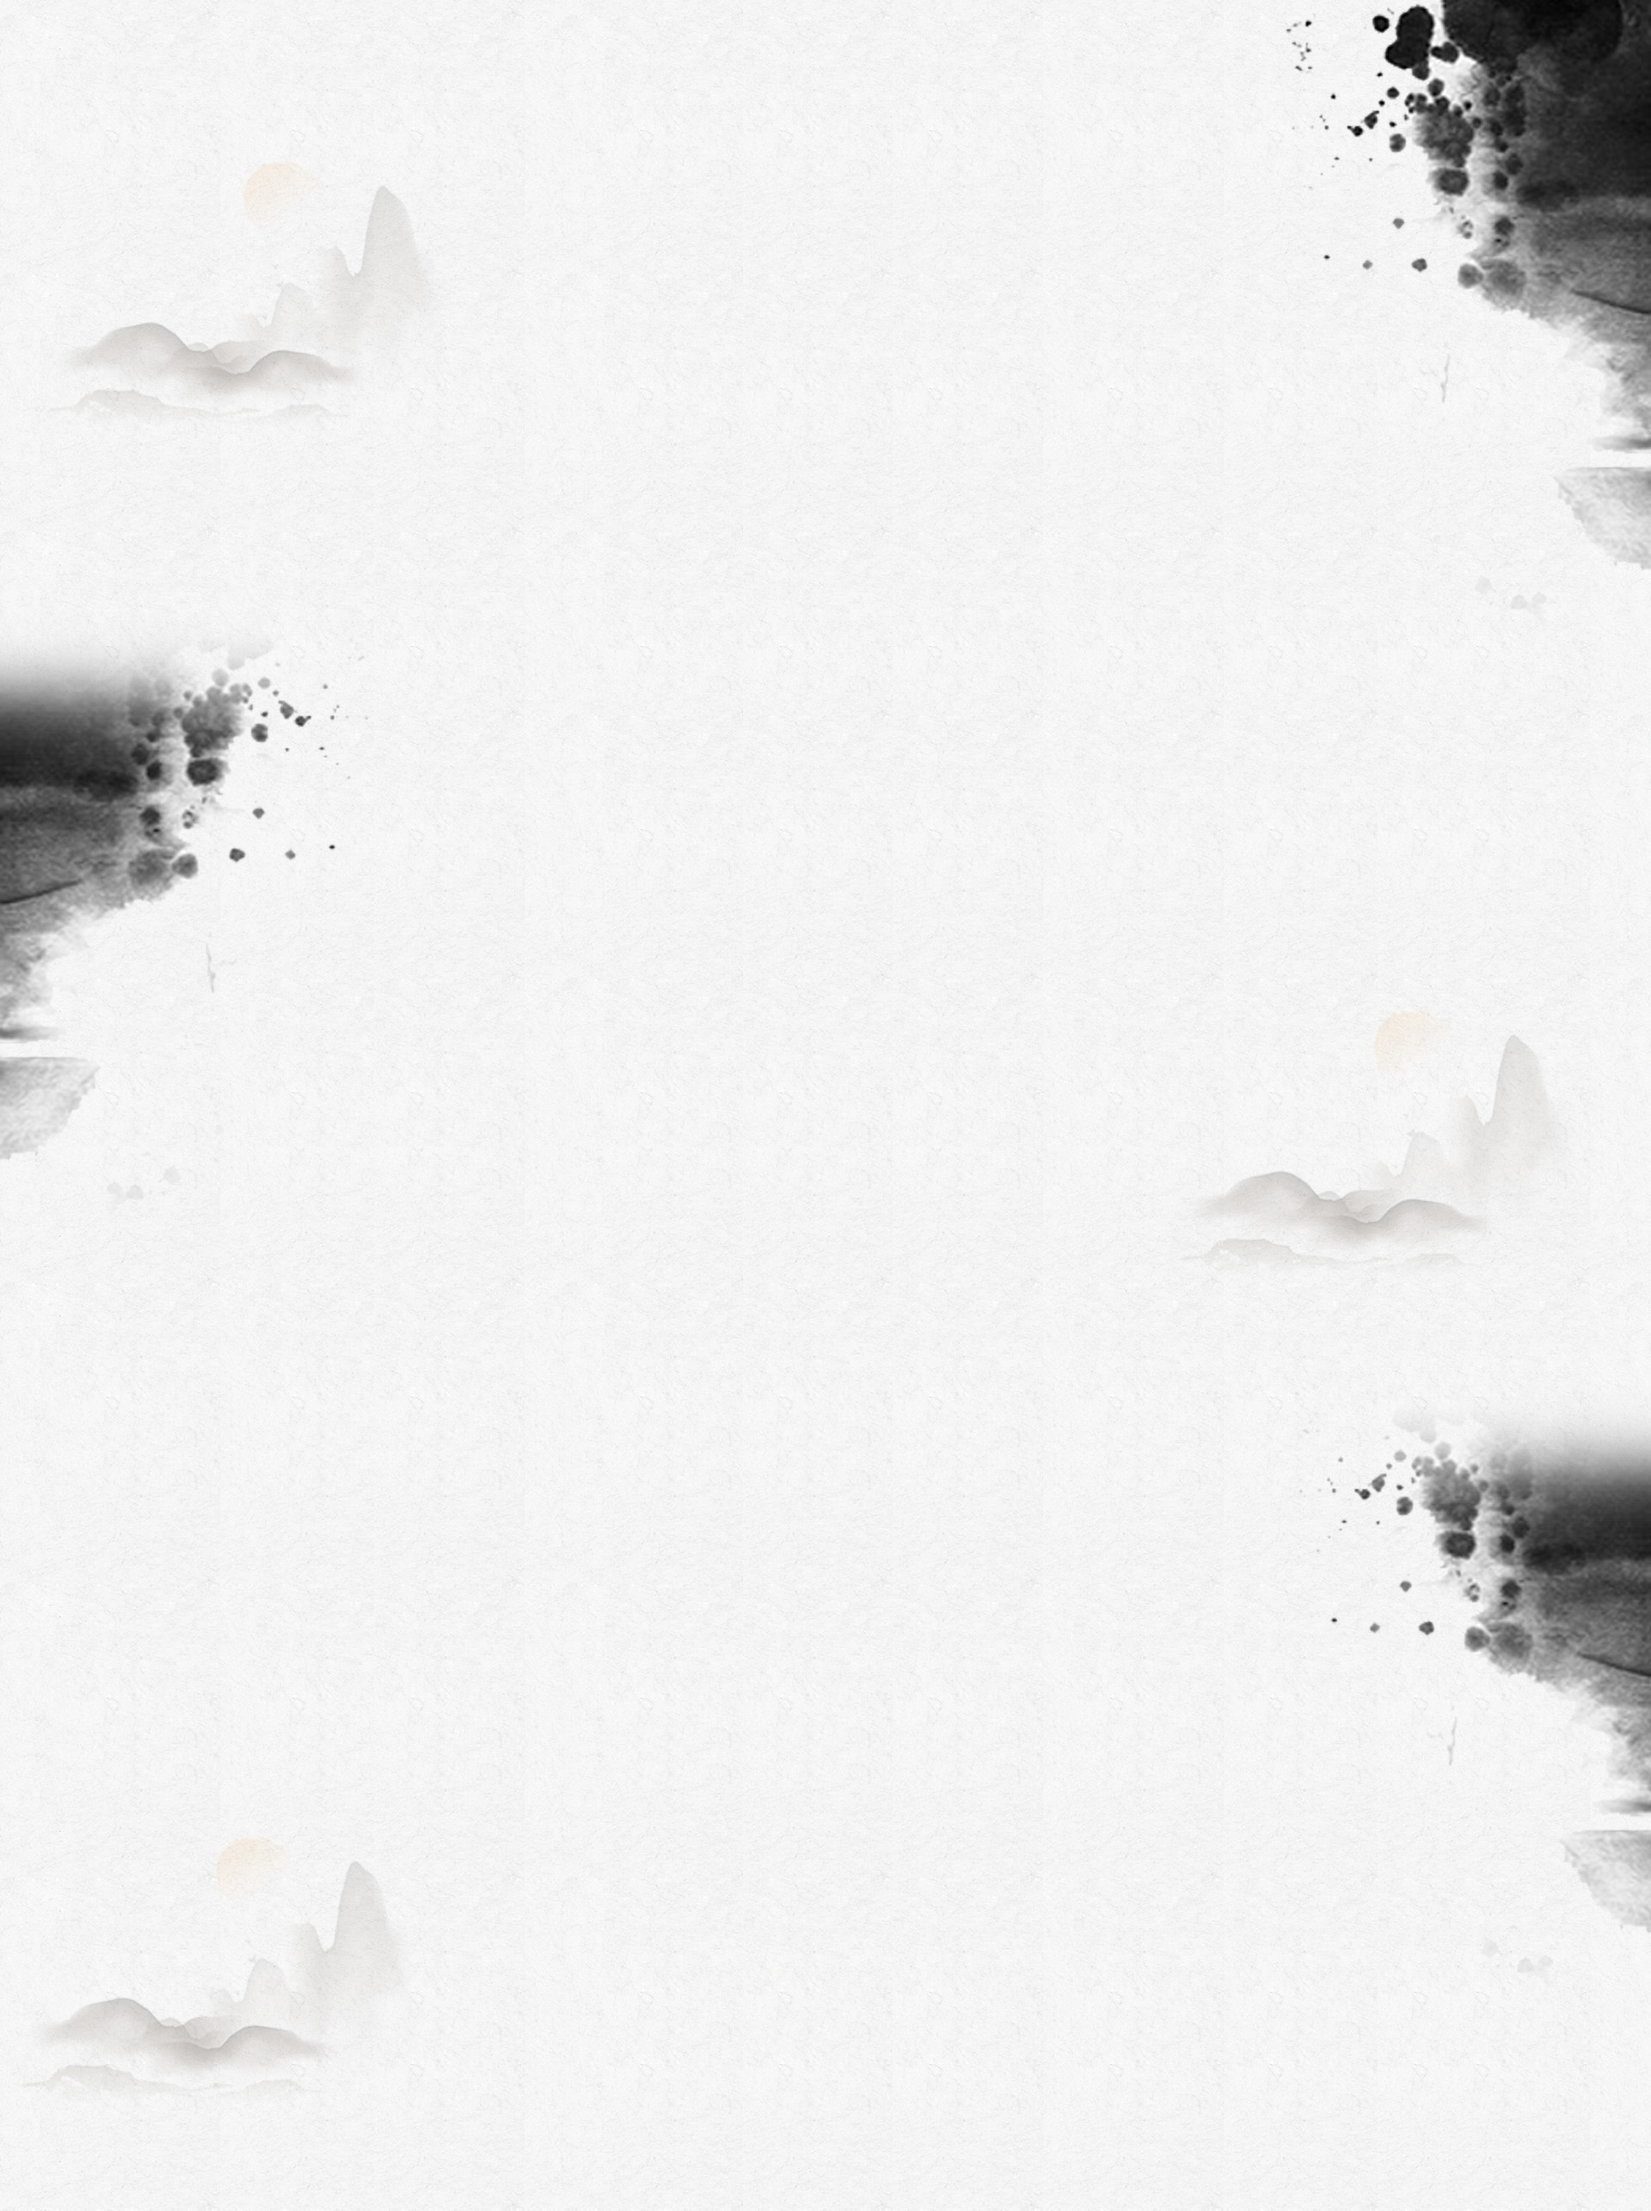
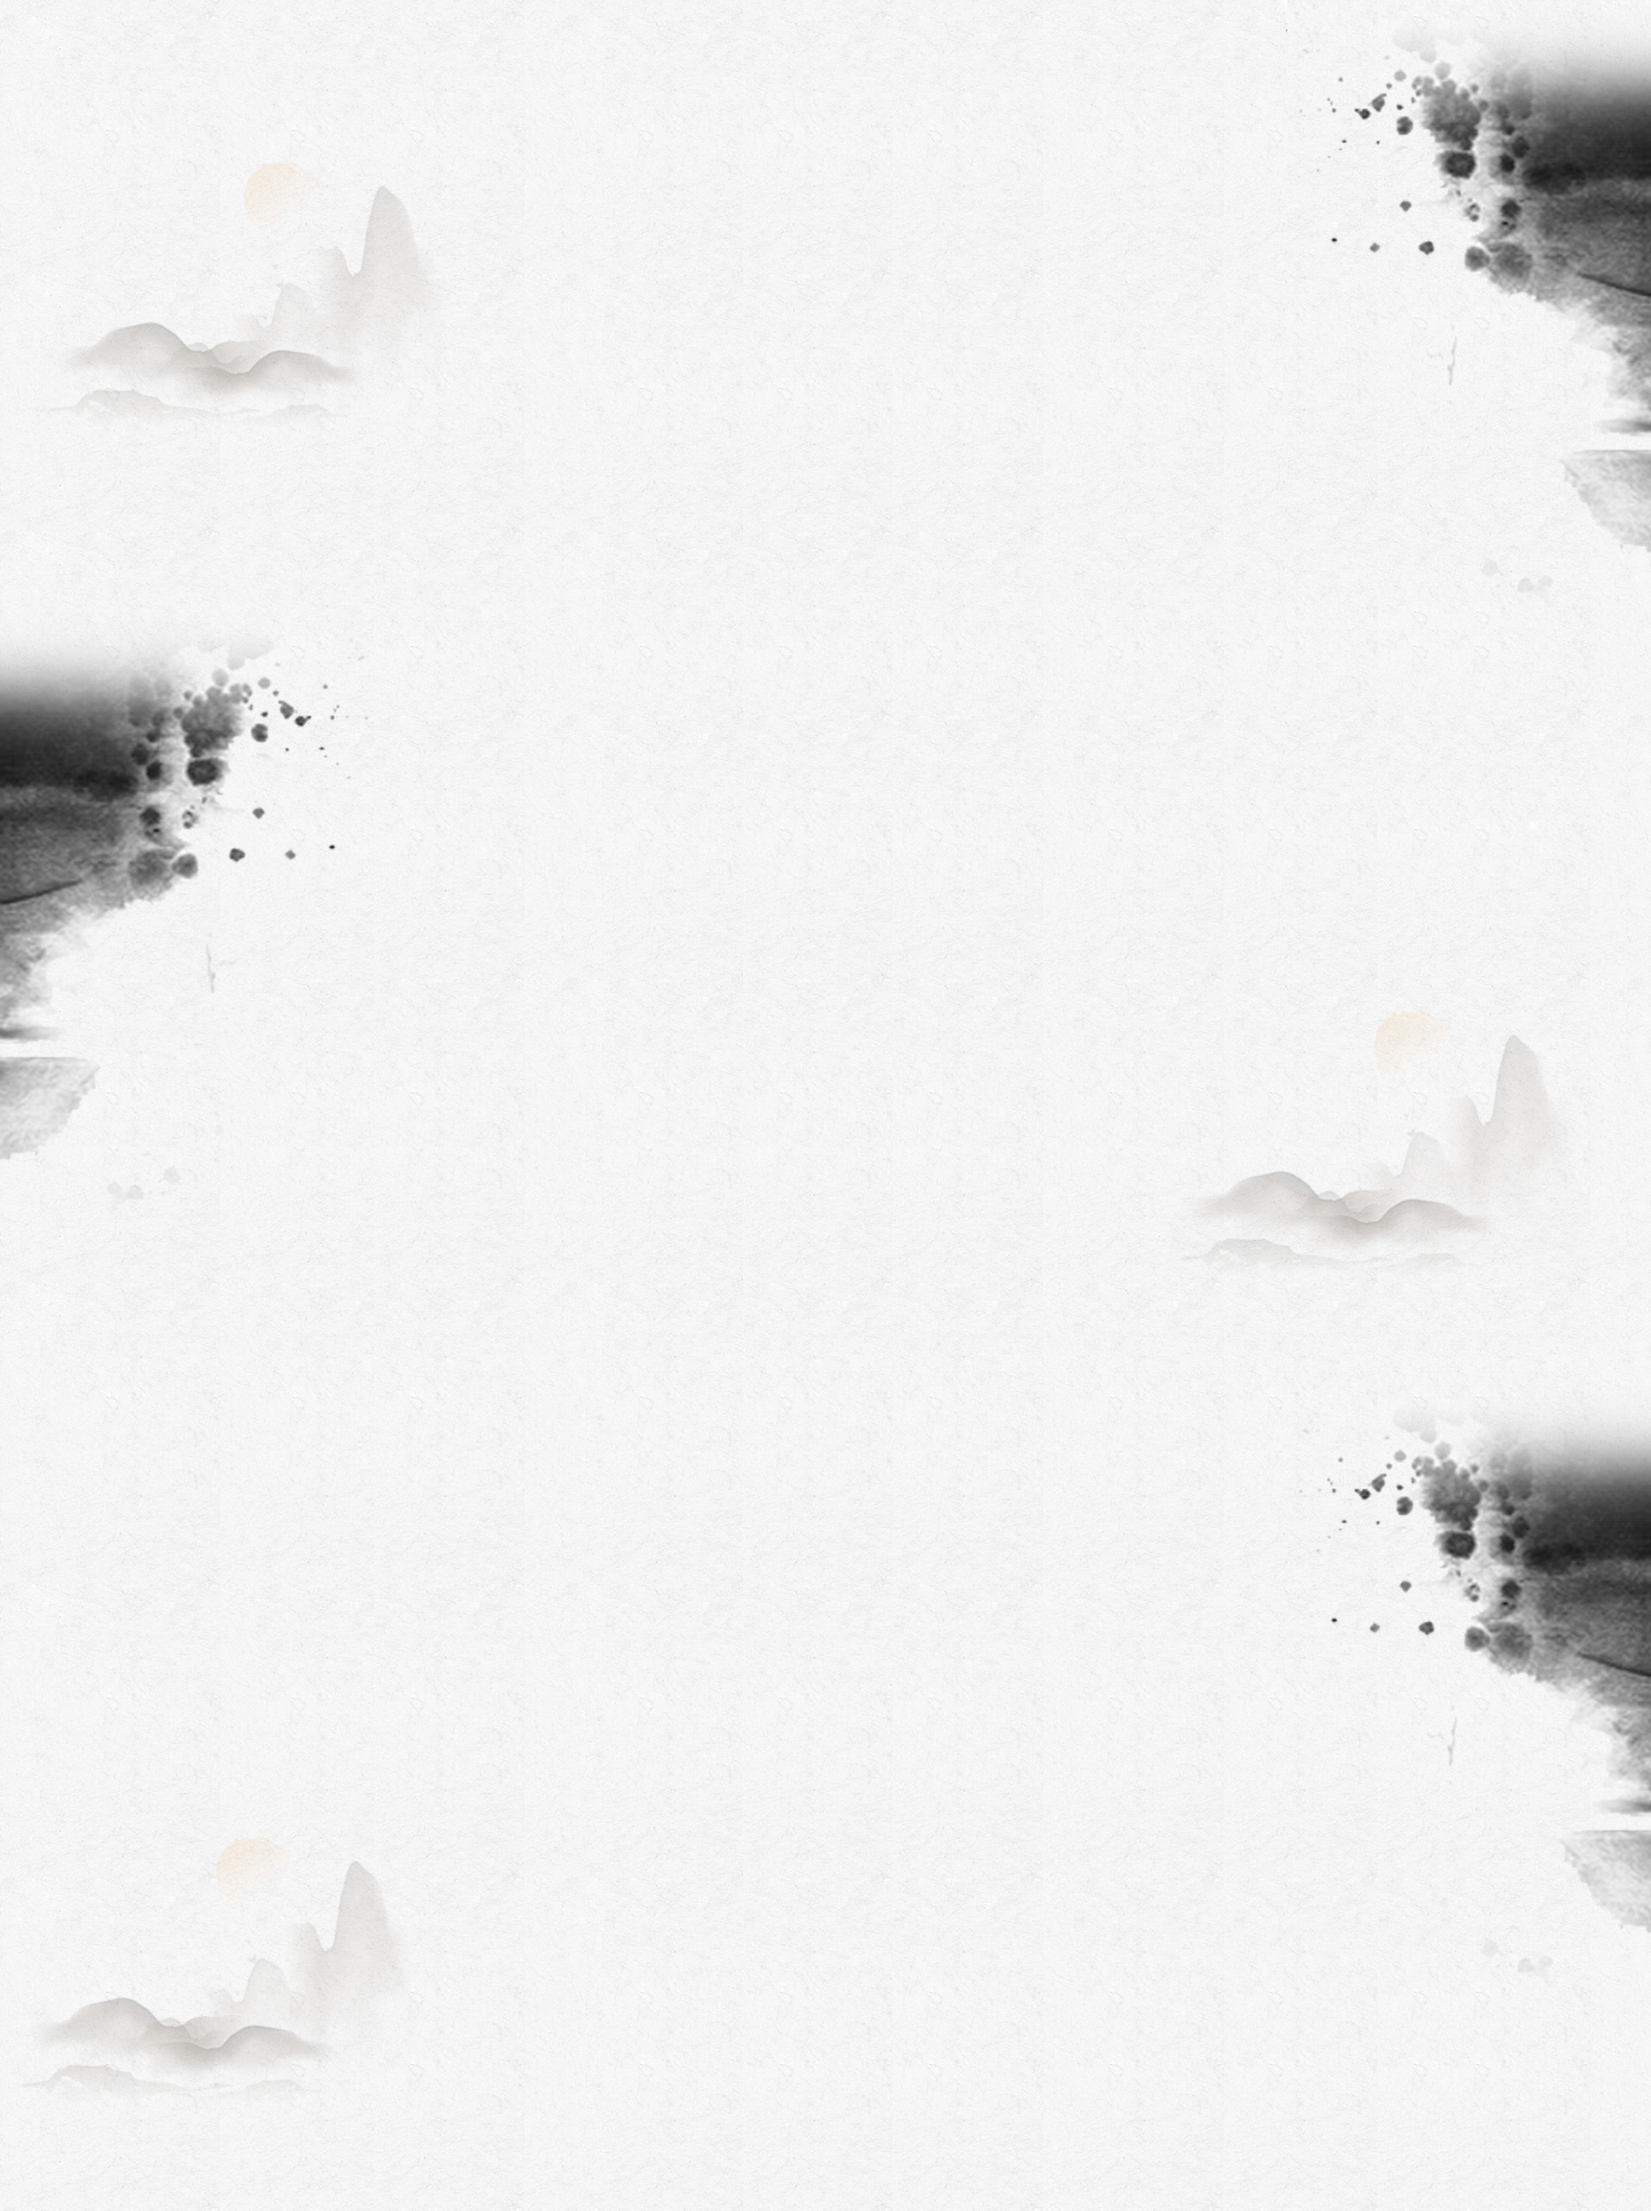
2.5 首页完成

Changed region(s): [[0.8125, 0.0, 1.0, 0.2489]]

diff --git a/index.html b/index.html
@@ -141,8 +141,8 @@ $('#js_banner_img').css('left','-' + (window_width * startFrame) + 'px');
 			<li><a href="#col_teacher">名师风采</a></li>
 			<li><a href="#col_course">课程介绍</a></li>
 			<li><a href="#col_student">学员天地</a></li>
-			<li><a href="#c">教学环境</a></li>
-			<li><a href="#">资源下载</a></li>
+			<li><a href="#col_sur">教学环境</a></li>
+			<li><a href="#col_resource">资源下载</a></li>
 
 
 		</ul>
@@ -274,7 +274,7 @@ $('#js_banner_img').css('left','-' + (window_width * startFrame) + 'px');
 	<div class="col_list">
 		<div class="col_list_con">
 			<div class="col_tab">
-				<a href="#" class="tab_more fl"><h2>资源下载</h2></a>
+				<a href="#" class="tab_more fl" id="col_resource"><h2>资源下载</h2></a>
 			</div>
 			<li class="col_teacher">
 				<a href="#" title="教师风采">
@@ -304,42 +304,42 @@ $('#js_banner_img').css('left','-' + (window_width * startFrame) + 'px');
 	</div>
 </div>
 <!--底部-->
-	<!--<div class="foot">-->
-		<!--<div class="foot_all" >-->
-			<!--<div class="foot_left">-->
-				<!--<div class="foot_left_one">-->
-					<!--<ul>-->
-						<!--<li class="foot_left_one_li" style="color:#fff; margin-top:-7px; margin-left:6px;">学院介绍</li>-->
-						<!--<li class="foot_left_one_li" style="margin-top:4px;" ><a style="color:#9A9EA7;" href="production.html">关于学院</a></li>-->
-						<!--<li class="foot_left_one_li">服务条款</li>-->
-						<!--<li class="foot_left_one_li">隐私保护</li>-->
-						<!--<li class="foot_left_one_li"><a style="color:#9A9EA7;" href="#foot">联系我们</a></li>-->
-					<!--</ul>-->
-				<!--</div>-->
-				<!--<div class="foot_left_two">-->
-					<!--<ul>-->
-						<!--<li class="foot_left_two_li" style="color:#fff; margin-top:-5px; margin-left:21px;">课程介绍</li>-->
-						<!--<li class="foot_left_two_li" style="margin-top:5px;"><a style="color:#9A9EA7;" href="#center_title">了解课程</a></li>-->
-						<!--<li class="foot_left_two_li"><a style="color:#9A9EA7;" href="production.html">学院优势</a></li>-->
-						<!--<li class="foot_left_two_li"><a style="color:#9A9EA7;" href="teachers.html">师资力量</a></li>-->
-					<!--</ul>-->
-				<!--</div>-->
-				<!--<div class="foot_left_three">-->
-					<!--<ul>-->
-						<!--<li class="foot_left_three_li" style="margin-left:21px; color:#fff; margin-top:-6px;" >如何报名</li>-->
-						<!--<li class="foot_left_three_li" style="margin-top:5px; margin-left:20px;  margin-top:6px;"><a style="color:#9A9EA7;" href="#foot">报名</a></li>-->
-					<!--</ul>-->
-				<!--</div>-->
-			<!--</div>-->
-			<!--<div class="foot_right">-->
-				<!--<p style="  color:#fff; font-size:14px;-->
-		<!--" >联系我们</p>-->
-				<!--<p style=" color:#fff; font-size:29px;"><img src="images/call.png" style=" margin-bottom:-3px; margin-right:10px;"  />400-000-0000</p>-->
-				<!--<p style=" color:#9A9EA7; font-size:14px;">传真：0991-15000000000</p>-->
-				<!--<p style=" color:#9A9EA7; font-size:14px; margin-top:-6px;">联系电话：15000000000</p>-->
-				<!--<p style=" color:#9A9EA7; font-size:14px; line-height:20px; margin-top:1px;">  更多模板：<a href="http://www.mycodes.net/" target="_blank">源码之家</a></p>-->
-			<!--</div>-->
-		<!--</div>-->
-	<!--</div>-->
+	<div class="foot">
+		<div class="foot_all" >
+			<div class="foot_left">
+				<div class="foot_left_one">
+					<ul>
+						<li class="foot_left_one_li" style="color:#fff; margin-top:-7px; margin-left:6px;">学院介绍</li>
+						<li class="foot_left_one_li" style="margin-top:4px;" ><a style="color:#9A9EA7;" href="production.html">关于学院</a></li>
+						<li class="foot_left_one_li">服务条款</li>
+						<li class="foot_left_one_li">隐私保护</li>
+						<li class="foot_left_one_li"><a style="color:#9A9EA7;" href="#foot">联系我们</a></li>
+					</ul>
+				</div>
+				<div class="foot_left_two">
+					<ul>
+						<li class="foot_left_two_li" style="color:#fff; margin-top:-5px; margin-left:21px;">课程介绍</li>
+						<li class="foot_left_two_li" style="margin-top:5px;"><a style="color:#9A9EA7;" href="#center_title">了解课程</a></li>
+						<li class="foot_left_two_li"><a style="color:#9A9EA7;" href="production.html">学院优势</a></li>
+						<li class="foot_left_two_li"><a style="color:#9A9EA7;" href="teachers.html">师资力量</a></li>
+					</ul>
+				</div>
+				<div class="foot_left_three">
+					<ul>
+						<li class="foot_left_three_li" style="margin-left:21px; color:#fff; margin-top:-6px;" >如何报名</li>
+						<li class="foot_left_three_li" style="margin-top:5px; margin-left:20px;  margin-top:6px;"><a style="color:#9A9EA7;" href="#foot">报名</a></li>
+					</ul>
+				</div>
+			</div>
+			<div class="foot_right">
+				<p style="  color:#fff; font-size:14px;
+		" >联系我们</p>
+				<p style=" color:#fff; font-size:29px;"><img src="images/call.png" style=" margin-bottom:-3px; margin-right:10px;"  />400-000-0000</p>
+				<p style=" color:#9A9EA7; font-size:14px;">传真：0991-15000000000</p>
+				<p style=" color:#9A9EA7; font-size:14px; margin-top:-6px;">联系电话：15000000000</p>
+				<p style=" color:#9A9EA7; font-size:14px; line-height:20px; margin-top:1px;">  更多模板：<a href="http://www.mycodes.net/" target="_blank">源码之家</a></p>
+			</div>
+		</div>
+	</div>
 </body>
 </html>

diff --git a/css/main.css b/css/main.css
@@ -27,7 +27,7 @@ body {
 	height: 100%;
 	overflow-x: hidden;
 	background: url("../images/mainbg.jpg");
-	background-size: 100% 100%
+	background-size: cover;
 }
 body html {
 	height: 100%；;
@@ -155,9 +155,9 @@ img {
 	width: 100%;
 	height: 350px;
 	background: #46474C;
-	/* position: absolute; */
+	position: absolute;
 	/* bottom: 0; */
-	/* margin-top:  -500px; */
+	margin-top: 2500px;
 }
 
 .foot_left {
@@ -452,6 +452,7 @@ img {
 	min-height: 100%;
 	position: relative;
 	margin-bottom: -500px;
+	/* height: 2000px; */
 }
 .col_nav {
 	width: 100%;
